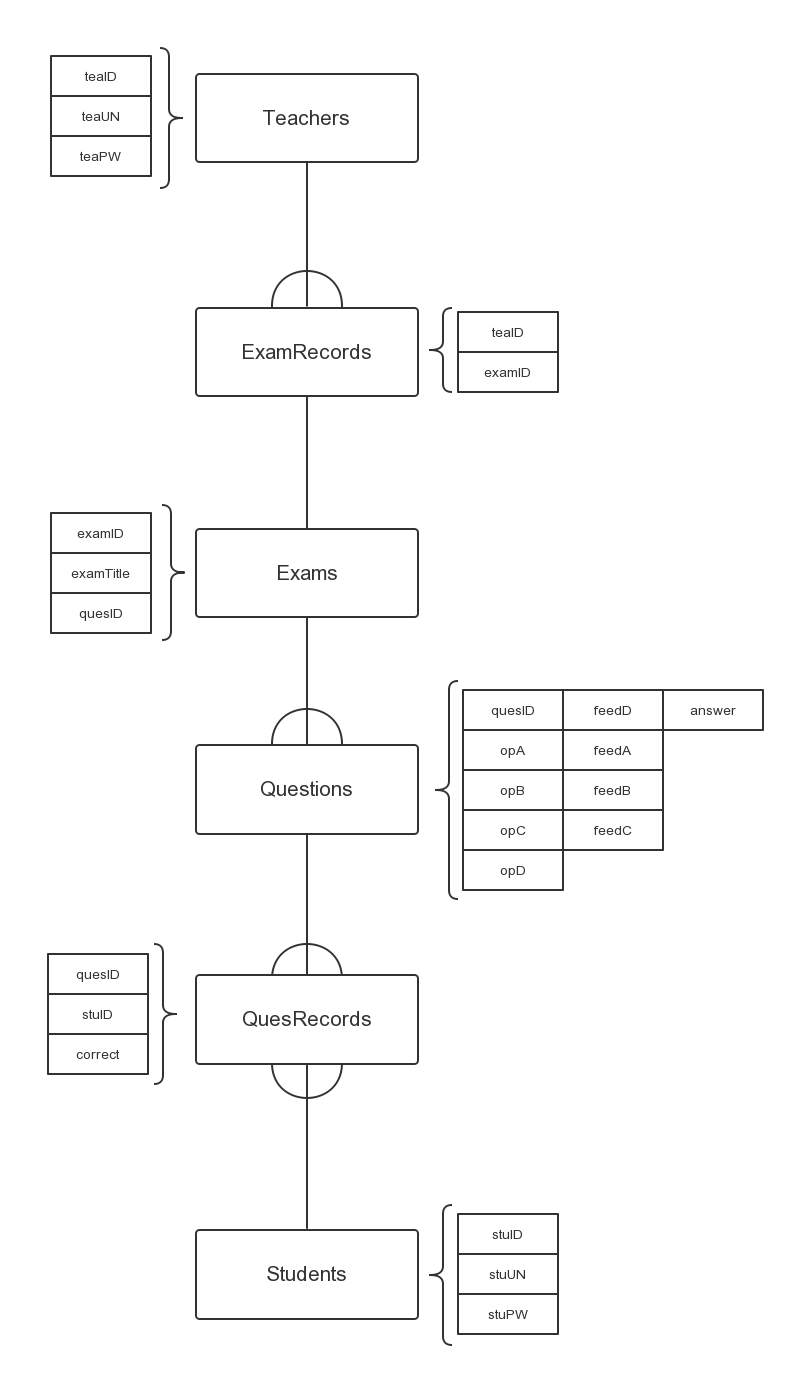
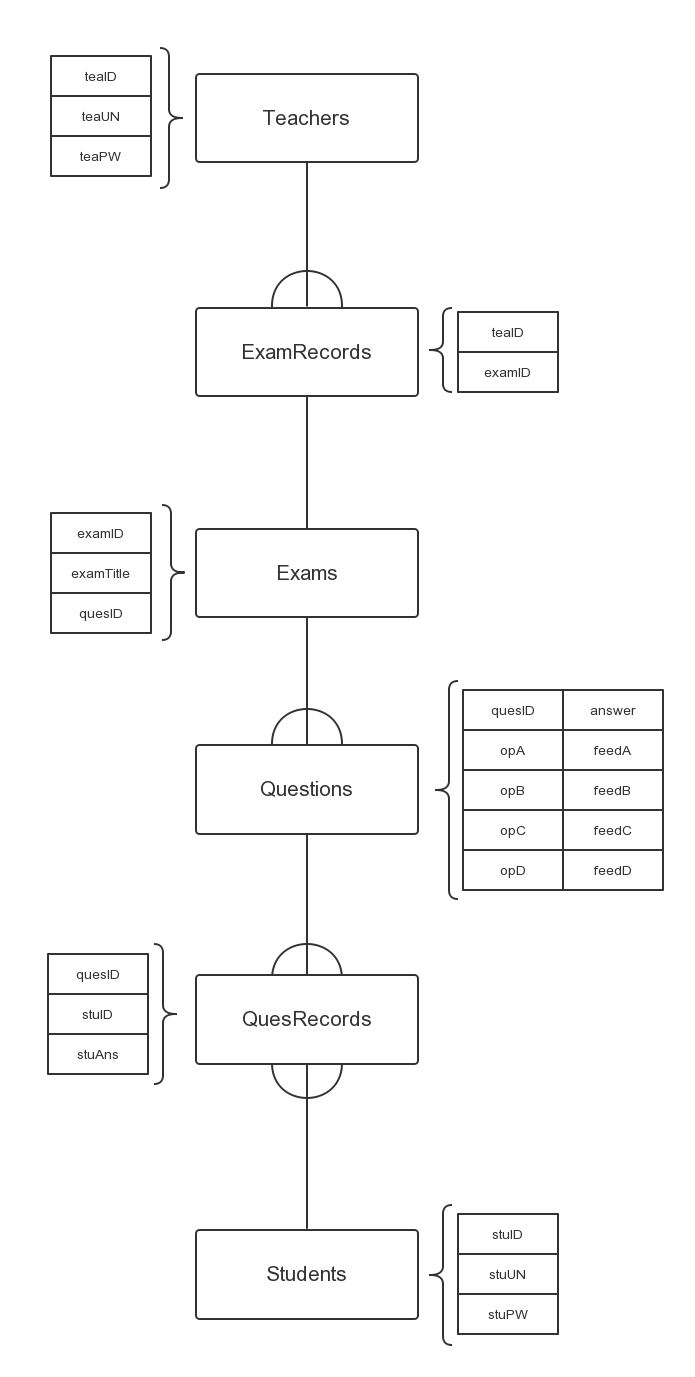
11/07 version
revised database design
password added to exams

diff --git a/student_interface.html b/student_interface.html
@@ -6,14 +6,17 @@
 <html>
 	<head>
 		<meta http-equiv="Content-Type" content="text/html; charset = utf-8">
-		<title>MCQ web app: student interface entry</title>
+		<title>MCQ web app: student entry</title>
 	</head>
 	
 	<body>
-		<h2>Please enter the exam code:</h2>
+		<h2>Please enter the exam paper ID and the password:</h2>
 		<form action="student_interface.php" method="post">
+			<div>ID:</div>
 			<input type="text" name="examID"/>
-			<input type="submit" value="Submit"/>		
+			<div>Password:</div>
+			<input type="text" name="examPW"/>	
+			<input type="submit" value="Submit"/>
 		</form>
 	</body>
 </html>

diff --git a/teacher_interface.html b/teacher_interface.html
@@ -6,7 +6,7 @@
 <html>
 	<head>
 		<meta http-equiv = "Content-Type" content = "text/html; charset = utf-8" />
-		<title>MCQ web app trial</title>
+		<title>MCQ web app: teacher interface entry</title>
 	</head>
 
 	<body>
@@ -42,6 +42,9 @@
 			<label> <input type="radio" name="answer" value="B"/> B </label>
 			<label> <input type="radio" name="answer" value="C"/> C </label>
 			<label> <input type="radio" name="answer" value="D"/> D </label>
+
+			<br/>
+			<div>Password</div><input type="text" name="examPW"/><br/>
 			<input type="submit" value="Submit"/>
 	</form>
 	</body>

diff --git a/student_interface.php b/student_interface.php
@@ -20,17 +20,25 @@
             mysql_select_db("MCQ-web-app", $con);
 
             $examID = $_POST['examID'];
-            setcookie('examID', $examID);
             
             $sql = "SELECT * FROM Exams WHERE examID = " . $examID;
             $result = mysql_query($sql, $con);
-            if (!$result) {
-        	   die("Error: " . mysql_error());
+
+            $check_existance = mysql_num_rows($result);
+            if (!$check_existance) {
+        	   die("Error: Invalid exam ID.");
             }
 
             $row = mysql_fetch_array($result);
+            $examPW = $row['examPW'];
+            if ($_POST['examPW'] != $examPW) {
+                die("Error: Invalid password.");
+            }
+
+            setcookie('examID', $examID);
+            
             $quesID = $row['quesID'];
-            $examTitle = $row['examTitle'];
+            $examTitle = $row['examTitle'];           
 
             $sql = "SELECT * FROM Questions WHERE quesID = " . $quesID;
             $result = mysql_query($sql, $con);

diff --git a/exam-paper-upload.php b/exam-paper-upload.php
@@ -27,7 +27,8 @@
         	}
         
             $quesID = mysql_insert_id();
-            $sql = "INSERT INTO Exams(examTitle, quesID) VALUES ('$_POST[examTitle]', '$quesID')";
+            $examPW = $_POST['examPW'];
+            $sql = "INSERT INTO Exams(examTitle, quesID, examPW) VALUES ('$_POST[examTitle]', '$quesID', '$examPW')";
             $result = mysql_query($sql, $con);
             if (!$result)
             {
@@ -37,6 +38,7 @@
             $examID = mysql_insert_id();
             echo "Successfully uploaded your exam paper.";
             echo "The new exam id is " . $examID;
+            echo "The password is " . $examPW;
 
         	mysql_close($con);
     	?>
